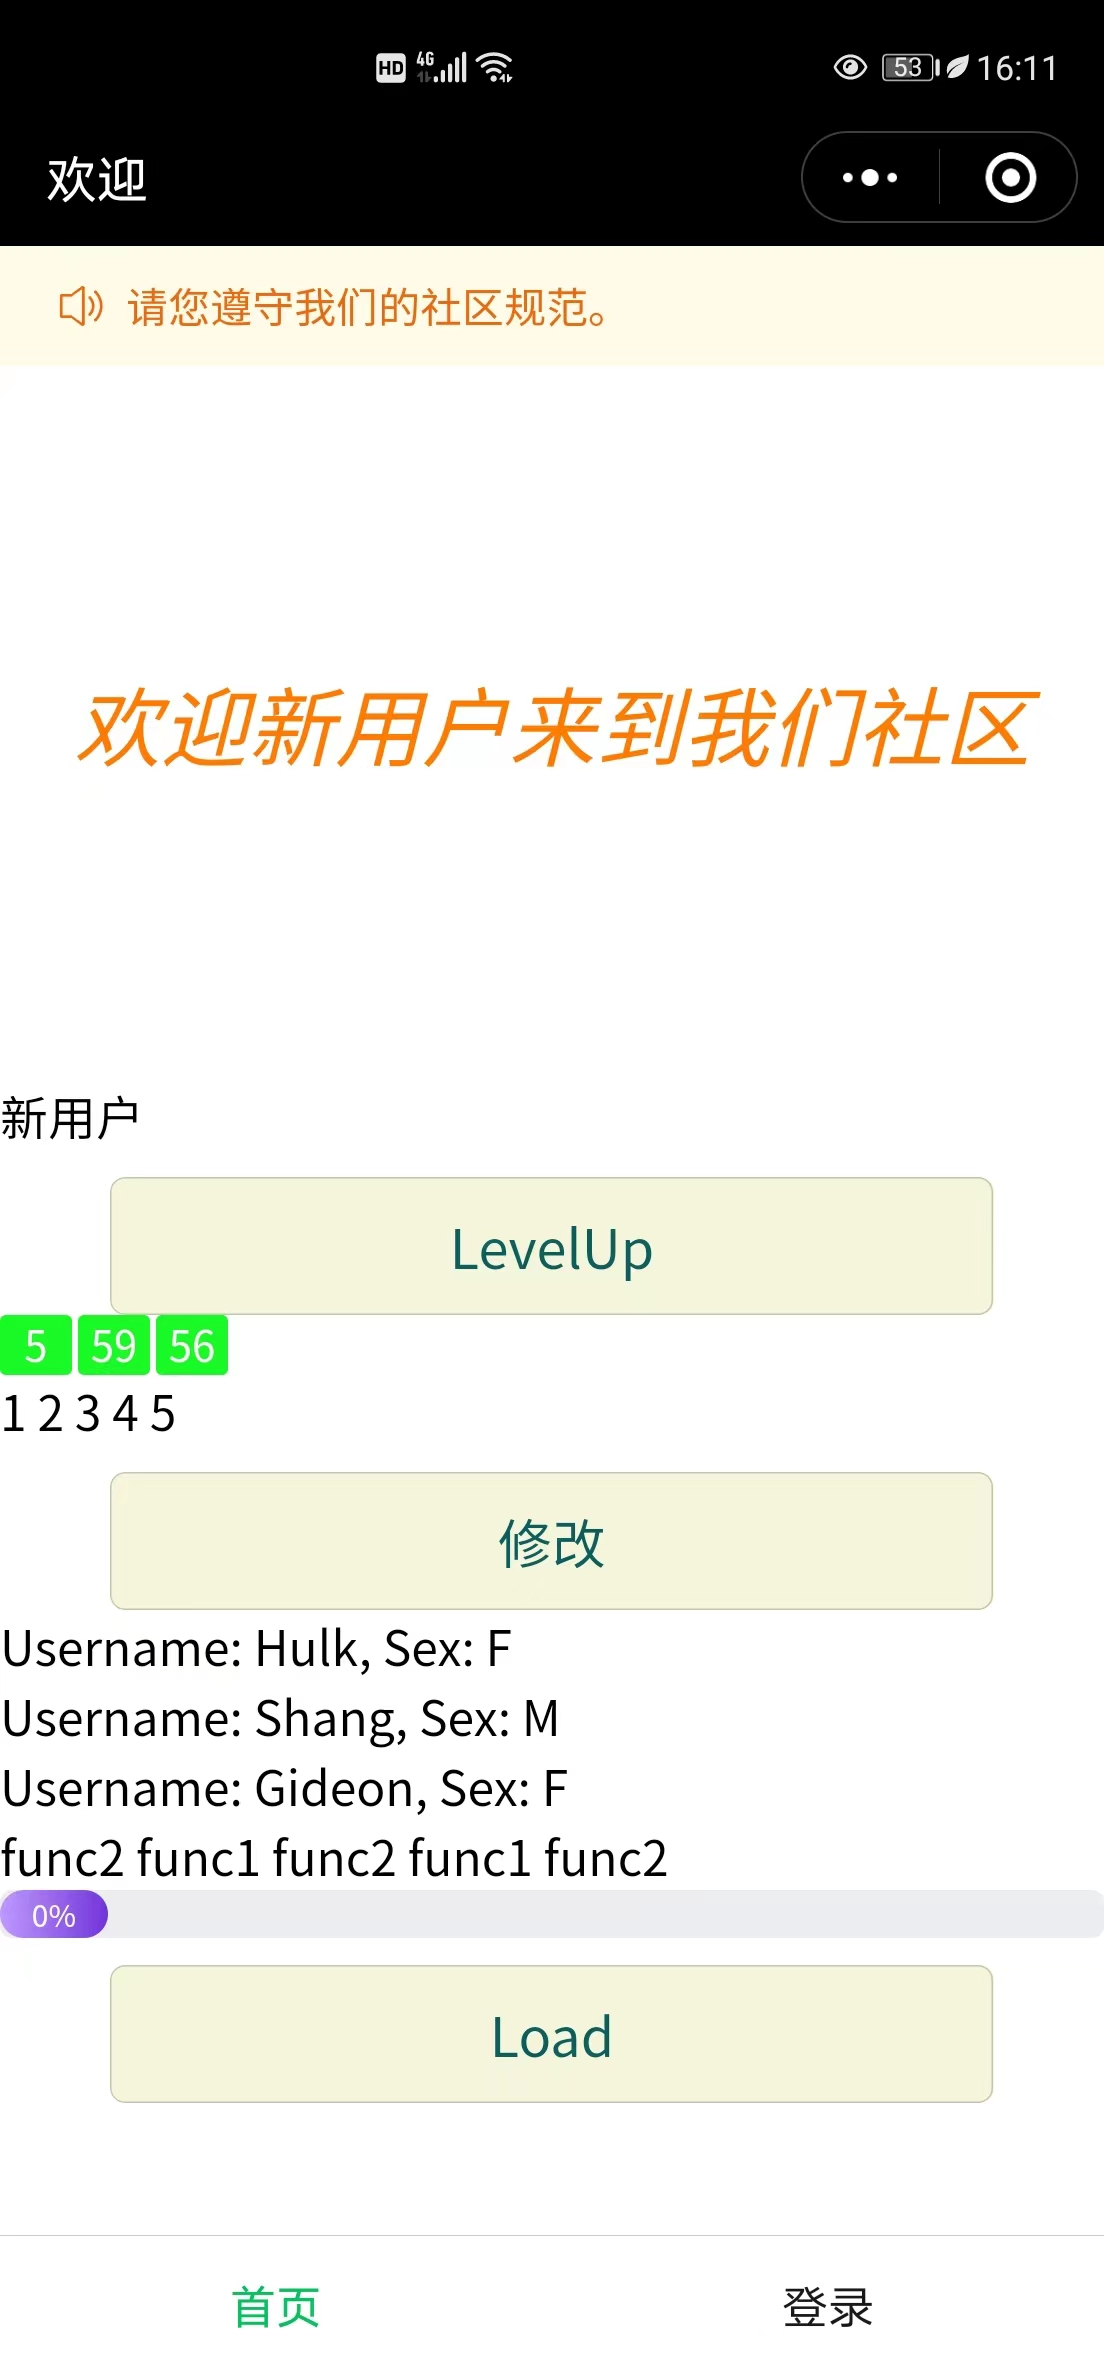
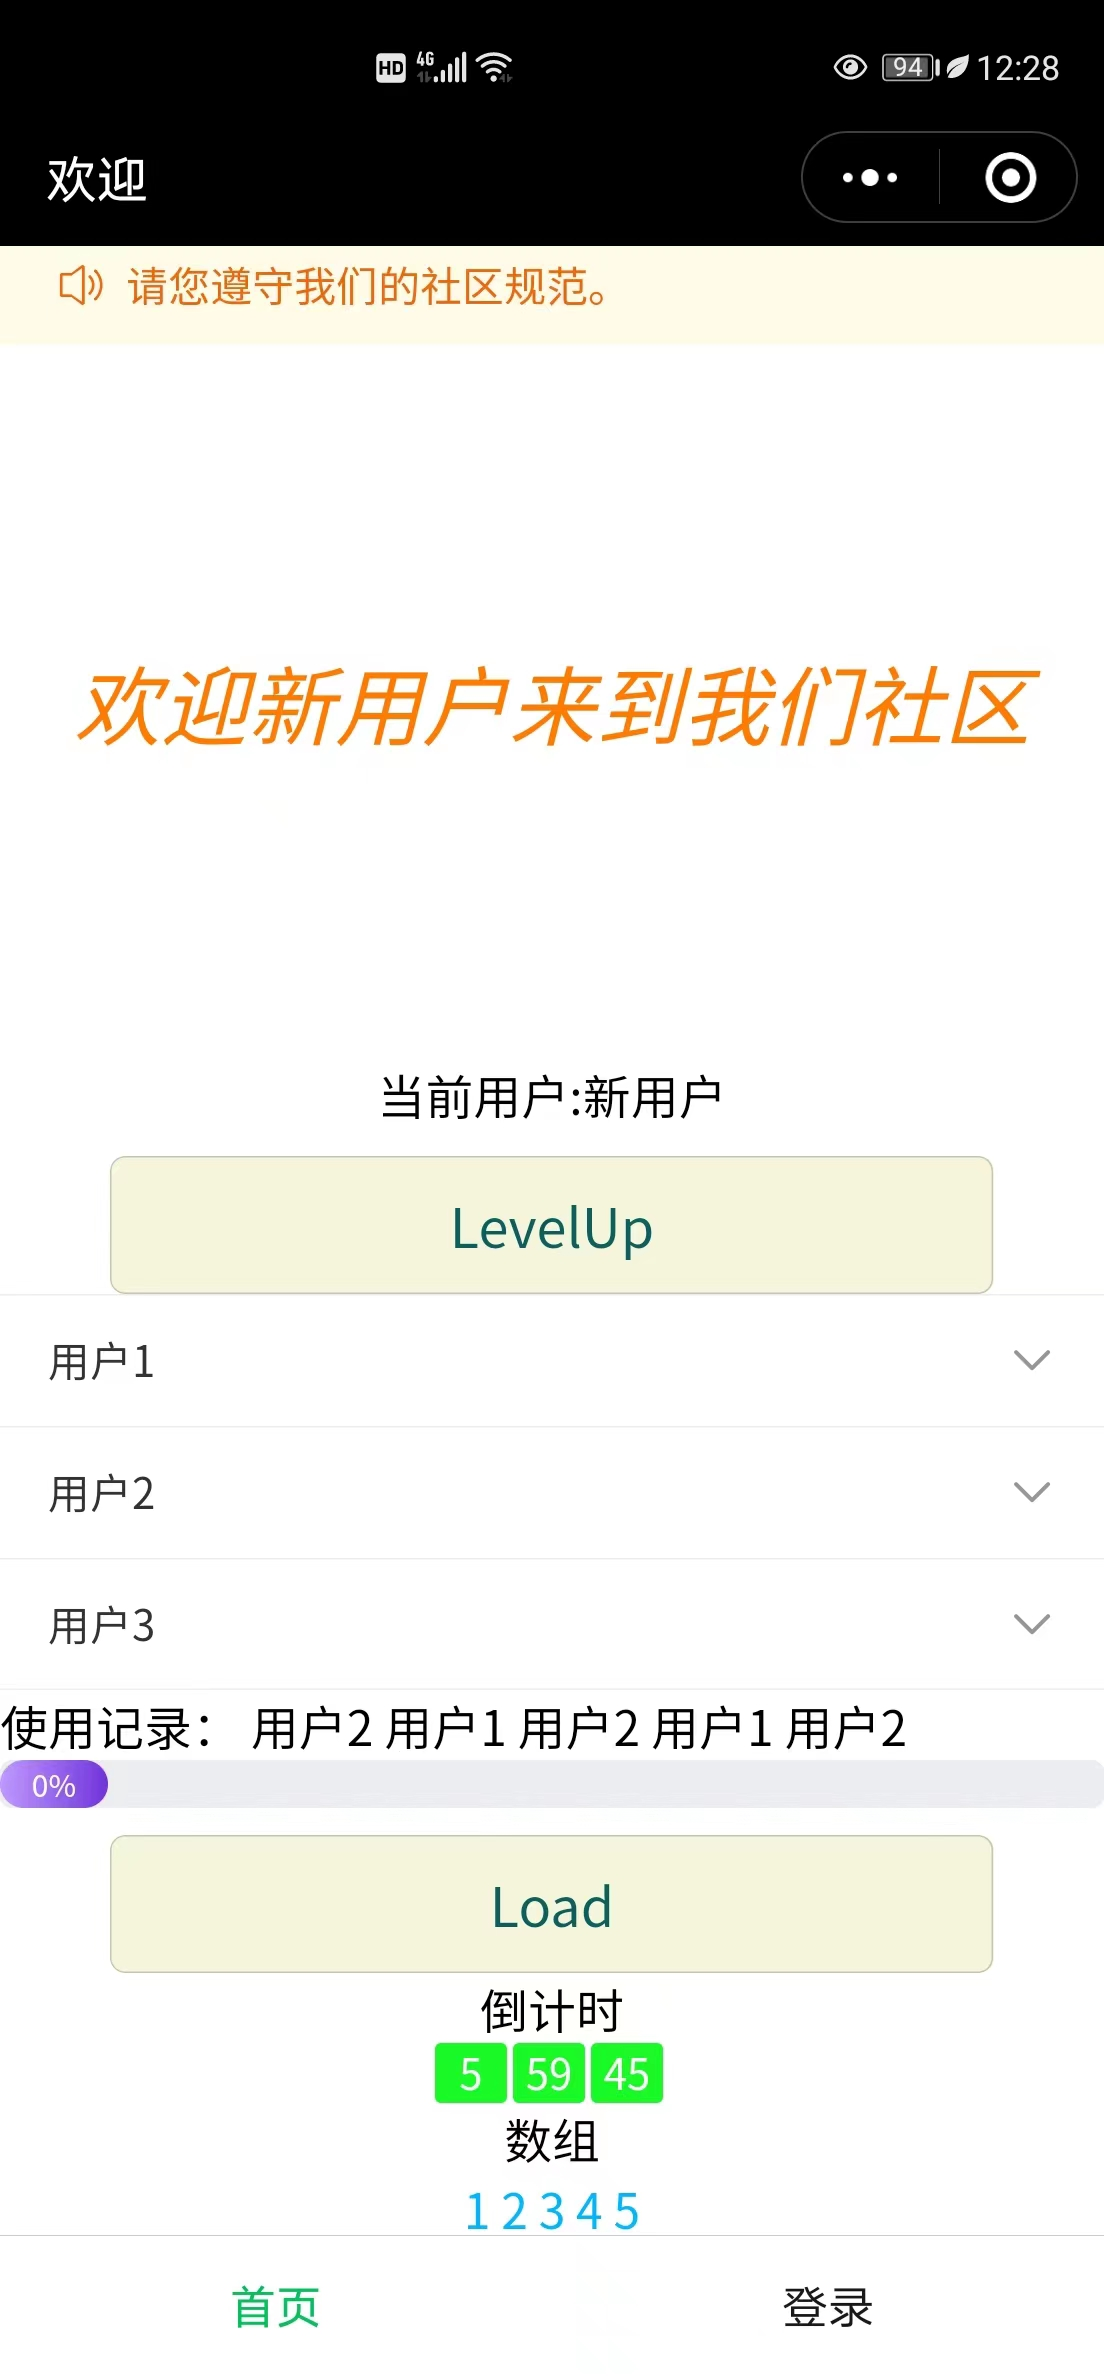
对index进行整理，并加入vant折叠面板

diff --git a/pages/index/index.js b/pages/index/index.js
@@ -8,8 +8,10 @@ Page({
     User1: {Username: 'Hulk', Sex: 'F'},
     User2: {Username: 'Shang', Sex: 'M'},
     User3: {Username: 'Gideon', Sex: 'F'},
-    progressVal:0
+    progressVal:0,
+    activeNames: ['1'],
   },
+  
   change:function(){
 this.setData({array:[4,5,6,7,8]})
   },
@@ -30,6 +32,11 @@ this.setData({array:[4,5,6,7,8]})
   onChange(e) {
     this.setData({
       timeData: e.detail,
+    });
+  },
+  onChange1(event) {
+    this.setData({
+      activeNames: event.detail,
     });
   },
 })

diff --git a/README.md b/README.md
@@ -4,10 +4,22 @@
 共使用了两个page，一个index，一个login，分别作为tabBar的两个页面。
 ## index页面
 ![index页面](images/1.jpg)
+---------
+图片1
+
 ![index页面](images/2.jpg)
+---------
+图片2
+
+
+![index页面](images/4.jpg)
+---------
+图片3
 
 ## login页面
 ![login页面](images/3.jpg)
+---------
+图片4
 
 # vant组件的使用
 ## index页面
@@ -16,10 +28,12 @@
     "van-notice-bar": "@vant/weapp/notice-bar/index",
     "van-count-down": "@vant/weapp/count-down/index",
     "van-button": "@vant/weapp/button/index",
-    "van-progress": "@vant/weapp/progress/index"
+    "van-progress": "@vant/weapp/progress/index",
+      "van-collapse": "@vant/weapp/collapse/index",
+  "van-collapse-item": "@vant/weapp/collapse-item/index"
   }
   ```
-  即使用了通知栏，计时器，按钮，进度条
+  即使用了通知栏，计时器，按钮，进度条,折叠面板
 
   倒计时部分代码
   ```
@@ -95,7 +109,14 @@ this.setData({array:[4,5,6,7,8]})
 <view wx:elif="{{user == 'VIP'}}"> VIP </view>
 
 列表渲染-
-<block wx:for="{{array}}"> {{item}} </block>
+<!--列表渲染-->
+<p class="center">数组</p>
+
+<view style="text-align: center;">
+<block wx:for="{{array}}"> 
+    <p style="color: rgb(0, 183, 255);"> {{item}} </p>
+</block>
+</view>
 <button bindtap="change" class="CommonBtn">修改</button>
 
 模板
@@ -111,11 +132,13 @@ this.setData({array:[4,5,6,7,8]})
 
 模板加条件渲染，动态渲染
 <template name="func1">
-  <block> func1 </block>
+  <block> 用户1 </block>
 </template>
 <template name="func2">
-  <block> func2 </block>
+  <block> 用户2 </block>
 </template>
+
+<p>使用记录：</p>
 <block wx:for="{{[1, 2, 3, 4, 5]}}">
   <template is="{{item % 2 == 0 ? 'func1' : 'func2'}}"/>
 </block>
